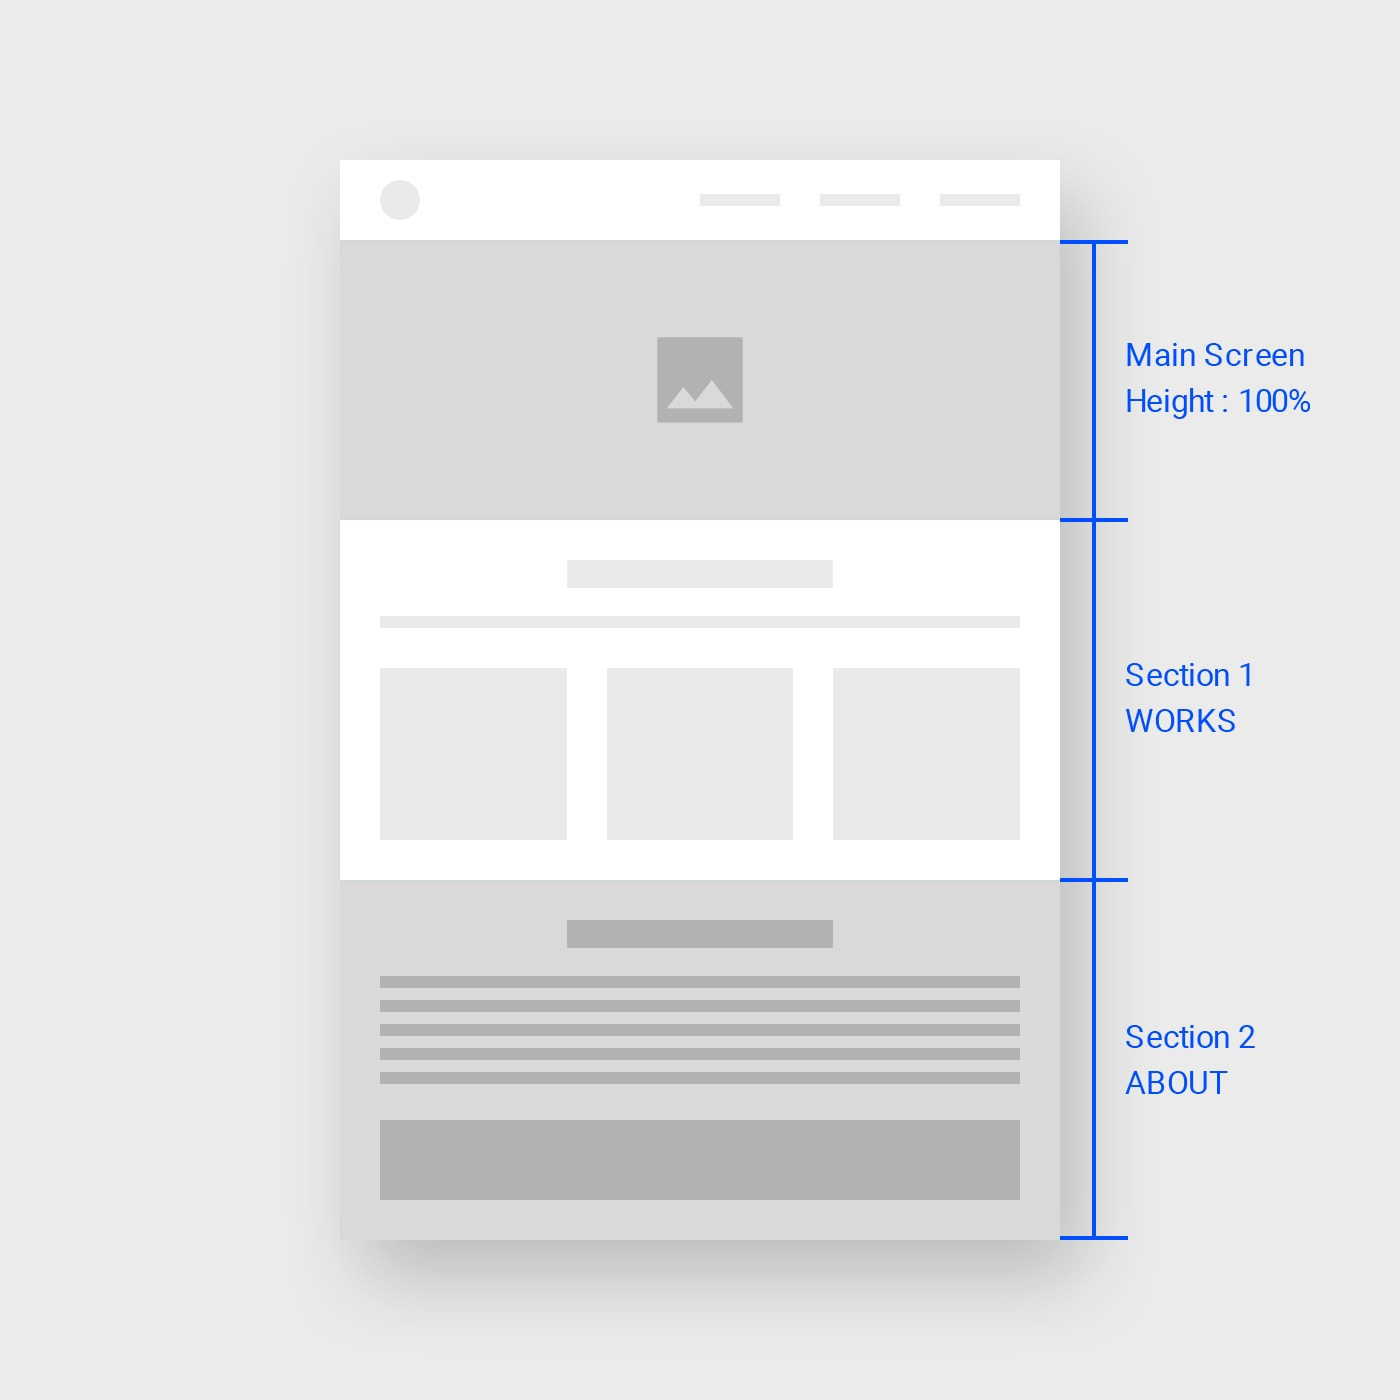
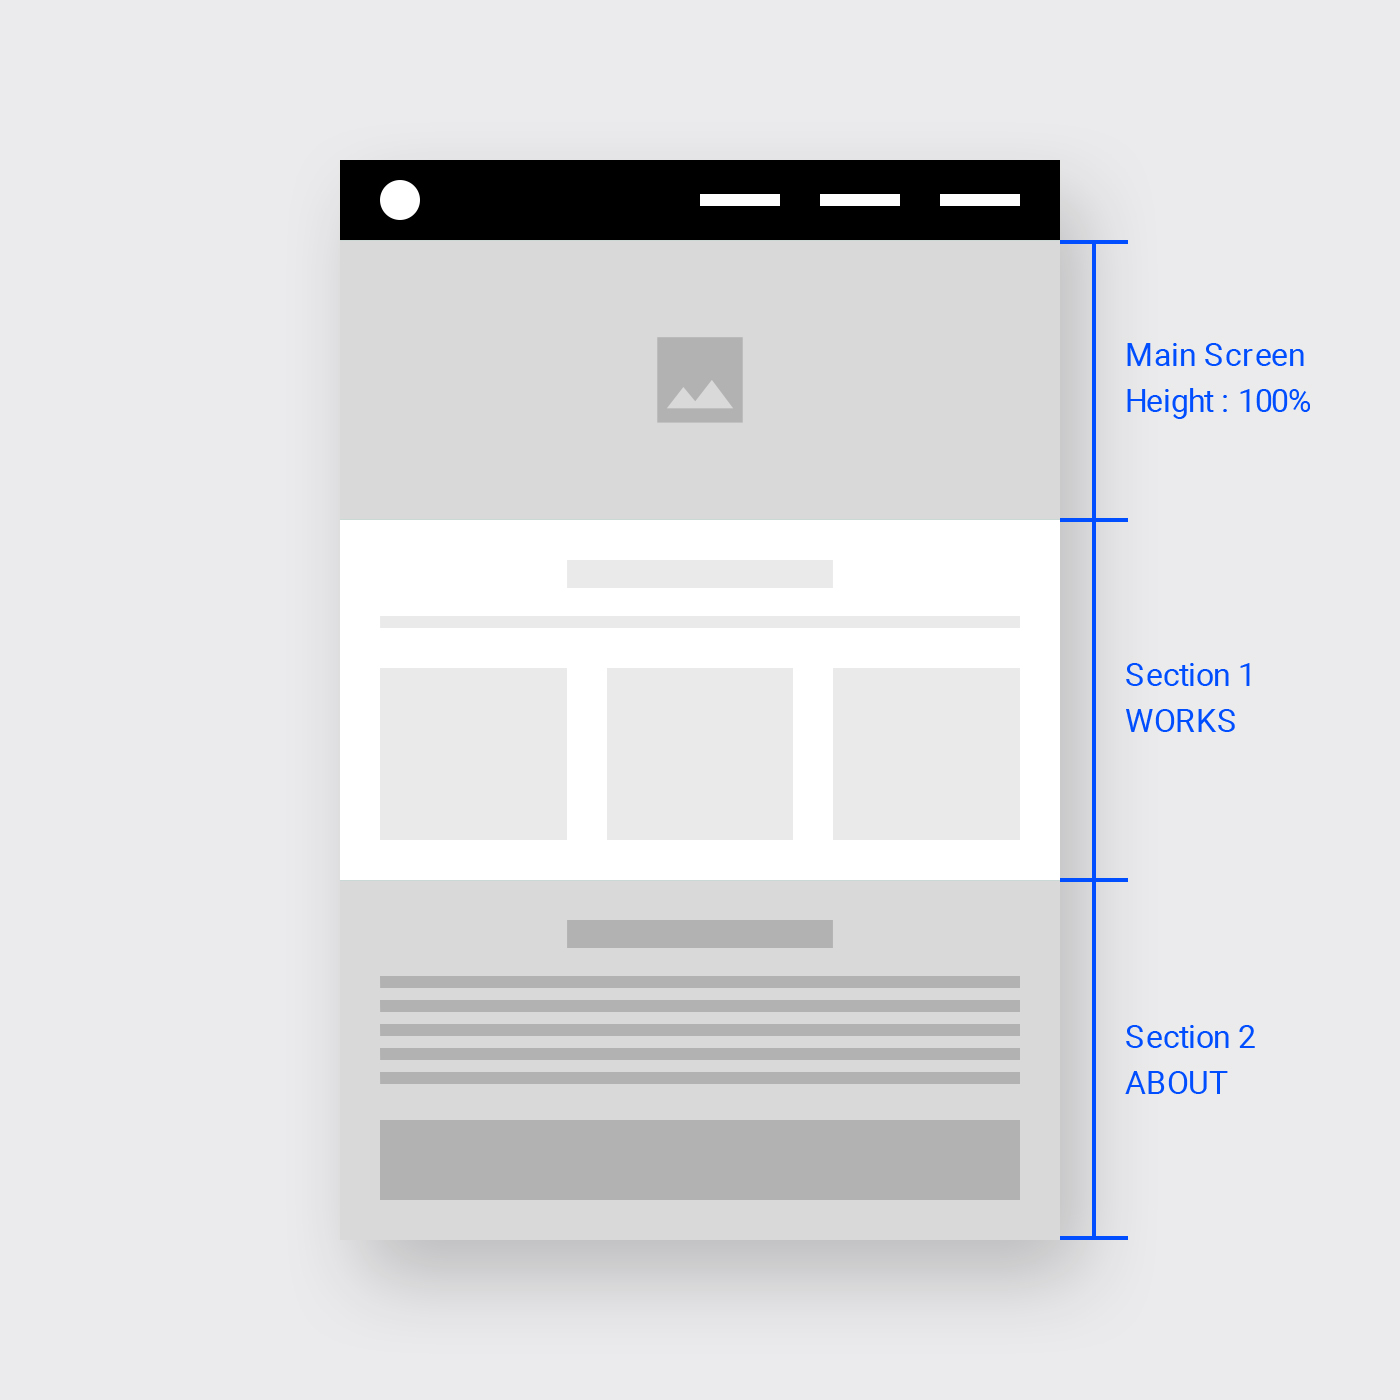
ㅎ

diff --git a/content/path-to-file-wifi.html b/content/path-to-file-wifi.html
@@ -15,7 +15,7 @@
 
 <style>
 .close {
-    background: #fff;
+    background: #000;
     top:0px;
   	right:0px;
   	width:10px;
@@ -26,7 +26,7 @@
 .close:after {
     content: '';
     height: 23px;
-    border-left: 2px solid #000;
+    border-left: 2px solid #fff;
     position: absolute;
     transform: rotate(45deg);
     top:17px;
@@ -36,7 +36,7 @@
 .close:before {
     content: '';
     height: 23px;
-    border-left: 2px solid #000;
+    border-left: 2px solid #fff;
     position: absolute;
     transform: rotate(-45deg);
     top:17px;
@@ -150,13 +150,13 @@ LG Wi-Fi Speaker은 LG Wi-Fi 스피커 전용 어플리케이션으로<br>
     <div class="section_box">
       <div class="section_pro">
   <h3>About</h3>
-  <p>Wi-Fi Speaker은 정보 (스피커, 음악파일 탐색) 와 기능 (스피커, 음악파일 관리, 재생)을 모두 제공합니다.</p>
+  <p>정보 (스피커, 음악파일 탐색) 와 기능 (스피커, 음악파일 관리, 재생)을 모두 제공합니다.</p>
   <img src="https://jwpg018241.github.io/jwpg/img/wifi/wifi_2-1.jpg">
   <p>Main, Navigation Screen</p>
 </div>
 <div class="section_pro">
   <h3>Product Architecture</h3>
-  <p>Wi-Fi Speaker은 세련되고 표현력이 뛰어나 사용자에게 맞춤화된 느낌을 주는 비주얼과 디테일한 모션으로 디자인 되었습니다.</p>
+  <p>세련되고 표현력이 뛰어나 사용자에게 맞춤화된 느낌을 주는 비주얼과 디테일한 모션으로 디자인 되었습니다.</p>
   <img src="https://jwpg018241.github.io/jwpg/img/wifi/wifi_3-1.jpg">
   <p>Main, Navigation Screen</p>
   </div>
@@ -176,8 +176,8 @@ LG Wi-Fi Speaker은 LG Wi-Fi 스피커 전용 어플리케이션으로<br>
       <div class="section_pro">
   <h3>Color System</h3>
   <p>
-    · Wi-Fi Speaker의 메인컬러는 바이올렛 입니다.<br>
-    · Wi-Fi Speaker의 보조색상은 레드컬러를 사용합니다.
+    · 메인컬러는 바이올렛 입니다.<br>
+    · 보조색상은 레드컬러를 사용합니다.
   </p>
   <img src="https://jwpg018241.github.io/jwpg/img/wifi/wifi_3-2.jpg">
   <p>Color Guide</p>

diff --git a/css/css.css b/css/css.css
@@ -746,7 +746,7 @@ hr.section_profile_hr3 {border: 0;height: 1px;background: #151515; width: 1120px
 	height:60px;
 	cursor:pointer;
 	z-index:3;
-	display:none
+	display:none;
 }
 .desctop .headerMenu:hover .headerMenu_item {
 	background:grey
@@ -768,15 +768,18 @@ hr.section_profile_hr3 {border: 0;height: 1px;background: #151515; width: 1120px
 	-webkit-animation-direction:alternate;
 	animation-direction:alternate;
 	animation-fill-mode:forwards
+
 }
 .is-open .headerMenu_item {
 	background:grey
+
 }
 .headerMenu_item--1 {
 	top:0;
 	-webkit-transform:translateY(0);
 	-ms-transform:translateY(0);
 	transform:translateY(0)
+
 }
 .is-open .headerMenu_item--1 {
 	-webkit-animation-name:menu1In;
@@ -816,6 +819,7 @@ hr.section_profile_hr3 {border: 0;height: 1px;background: #151515; width: 1120px
 	opacity:1
 }
 .headerMenu_item--3 {
+
 	top:10px
 }
 .is-open .headerMenu_item--3 {
@@ -2035,7 +2039,8 @@ width:100%;
 	.headerMenu {
 		display:block;
 		top:0;
-		right:0
+		right:0;
+
 	}
 	.headerMenu_item {
 		-webkit-animation-duration:.5s;
@@ -6715,6 +6720,7 @@ width:100%;
 		display:block;
 		top:5px;
 		right:16px
+
 	}
 	.aboutMovie {
 		width:1165px;

diff --git a/content/path-to-file-jwpg.html b/content/path-to-file-jwpg.html
@@ -15,7 +15,7 @@
 
 <style>
 .close {
-    background: #fff;
+    background: #000;
     top:0px;
   	right:0px;
   	width:10px;
@@ -26,7 +26,7 @@
 .close:after {
     content: '';
     height: 23px;
-    border-left: 2px solid #000;
+    border-left: 2px solid #fff;
     position: absolute;
     transform: rotate(45deg);
     top:17px;
@@ -36,7 +36,7 @@
 .close:before {
     content: '';
     height: 23px;
-    border-left: 2px solid #000;
+    border-left: 2px solid #fff;
     position: absolute;
     transform: rotate(-45deg);
     top:17px;
@@ -174,9 +174,9 @@ Web Site</h1>
 
 <div class="section_pro">
 <h3>Color</h3>
-<p>웹사이트 서체는 영어, 한글, 일본어가 모두 포함되어 있는 Noto Sans로 같은 스타일을 공유합니다.</p>
+<p>색상은 일관되고 의미있는 방식으로 UI 요소 및 구성 요소에 적용됩니다.</p>
 
-<img src="https://jwpg018241.github.io/jwpg/img/jwpg/jwpg_2.jpg">
+<img src="https://jwpg018241.github.io/jwpg/img/jwpg/jwpg_3.jpg">
 </div>
 
 </div>

diff --git a/content/path-to-file-weather.html b/content/path-to-file-weather.html
@@ -15,7 +15,7 @@
 
 <style>
 .close {
-    background: #fff;
+    background: #000;
     top:0px;
   	right:0px;
   	width:10px;
@@ -26,7 +26,7 @@
 .close:after {
     content: '';
     height: 23px;
-    border-left: 2px solid #000;
+    border-left: 2px solid #fff;
     position: absolute;
     transform: rotate(45deg);
     top:17px;
@@ -36,7 +36,7 @@
 .close:before {
     content: '';
     height: 23px;
-    border-left: 2px solid #000;
+    border-left: 2px solid #fff;
     position: absolute;
     transform: rotate(-45deg);
     top:17px;
@@ -214,7 +214,7 @@ LG Weather 앱은 정보전달의 콘텐츠 자체를 메인에 놓는 방식으
   <div class="section_pro">
 
 <h2>Animation</h2>
-<p>인터랙션을 통한 사용자와의 상호작용은 사용자의 주목을 끌고 지루하지 않게 합니다.</p>
+<p>애니메이션을 통한 사용자와의 상호작용은 사용자의 주목을 끌고 지루하지 않게 합니다.</p>
 </div>
 
 <div class="section_box">

diff --git a/content/path-to-file-cj.html b/content/path-to-file-cj.html
@@ -15,7 +15,7 @@
 
 <style>
 .close {
-    background: #fff;
+    background: #000;
     top:0px;
   	right:0px;
   	width:10px;
@@ -26,7 +26,7 @@
 .close:after {
     content: '';
     height: 23px;
-    border-left: 2px solid #000;
+    border-left: 2px solid #fff;
     position: absolute;
     transform: rotate(45deg);
     top:17px;
@@ -36,7 +36,7 @@
 .close:before {
     content: '';
     height: 23px;
-    border-left: 2px solid #000;
+    border-left: 2px solid #fff;
     position: absolute;
     transform: rotate(-45deg);
     top:17px;

diff --git a/content/path-to-file-indi.html b/content/path-to-file-indi.html
@@ -15,7 +15,7 @@
 
 <style>
 .close {
-    background: #fff;
+    background: #000;
     top:0px;
   	right:0px;
   	width:10px;
@@ -26,7 +26,7 @@
 .close:after {
     content: '';
     height: 23px;
-    border-left: 2px solid #000;
+    border-left: 2px solid #fff;
     position: absolute;
     transform: rotate(45deg);
     top:17px;
@@ -36,7 +36,7 @@
 .close:before {
     content: '';
     height: 23px;
-    border-left: 2px solid #000;
+    border-left: 2px solid #fff;
     position: absolute;
     transform: rotate(-45deg);
     top:17px;

diff --git a/content/path-to-file-kiko.html b/content/path-to-file-kiko.html
@@ -15,7 +15,7 @@
 
 <style>
 .close {
-    background: #fff;
+    background: #000;
     top:0px;
   	right:0px;
   	width:10px;
@@ -26,7 +26,7 @@
 .close:after {
     content: '';
     height: 23px;
-    border-left: 2px solid #000;
+    border-left: 2px solid #fff;
     position: absolute;
     transform: rotate(45deg);
     top:17px;
@@ -36,7 +36,7 @@
 .close:before {
     content: '';
     height: 23px;
-    border-left: 2px solid #000;
+    border-left: 2px solid #fff;
     position: absolute;
     transform: rotate(-45deg);
     top:17px;

diff --git a/content/path-to-file-skin.html b/content/path-to-file-skin.html
@@ -15,7 +15,7 @@
 
 <style>
 .close {
-    background: #fff;
+    background: #000;
     top:0px;
   	right:0px;
   	width:10px;
@@ -26,7 +26,7 @@
 .close:after {
     content: '';
     height: 23px;
-    border-left: 2px solid #000;
+    border-left: 2px solid #fff;
     position: absolute;
     transform: rotate(45deg);
     top:17px;
@@ -36,7 +36,7 @@
 .close:before {
     content: '';
     height: 23px;
-    border-left: 2px solid #000;
+    border-left: 2px solid #fff;
     position: absolute;
     transform: rotate(-45deg);
     top:17px;
